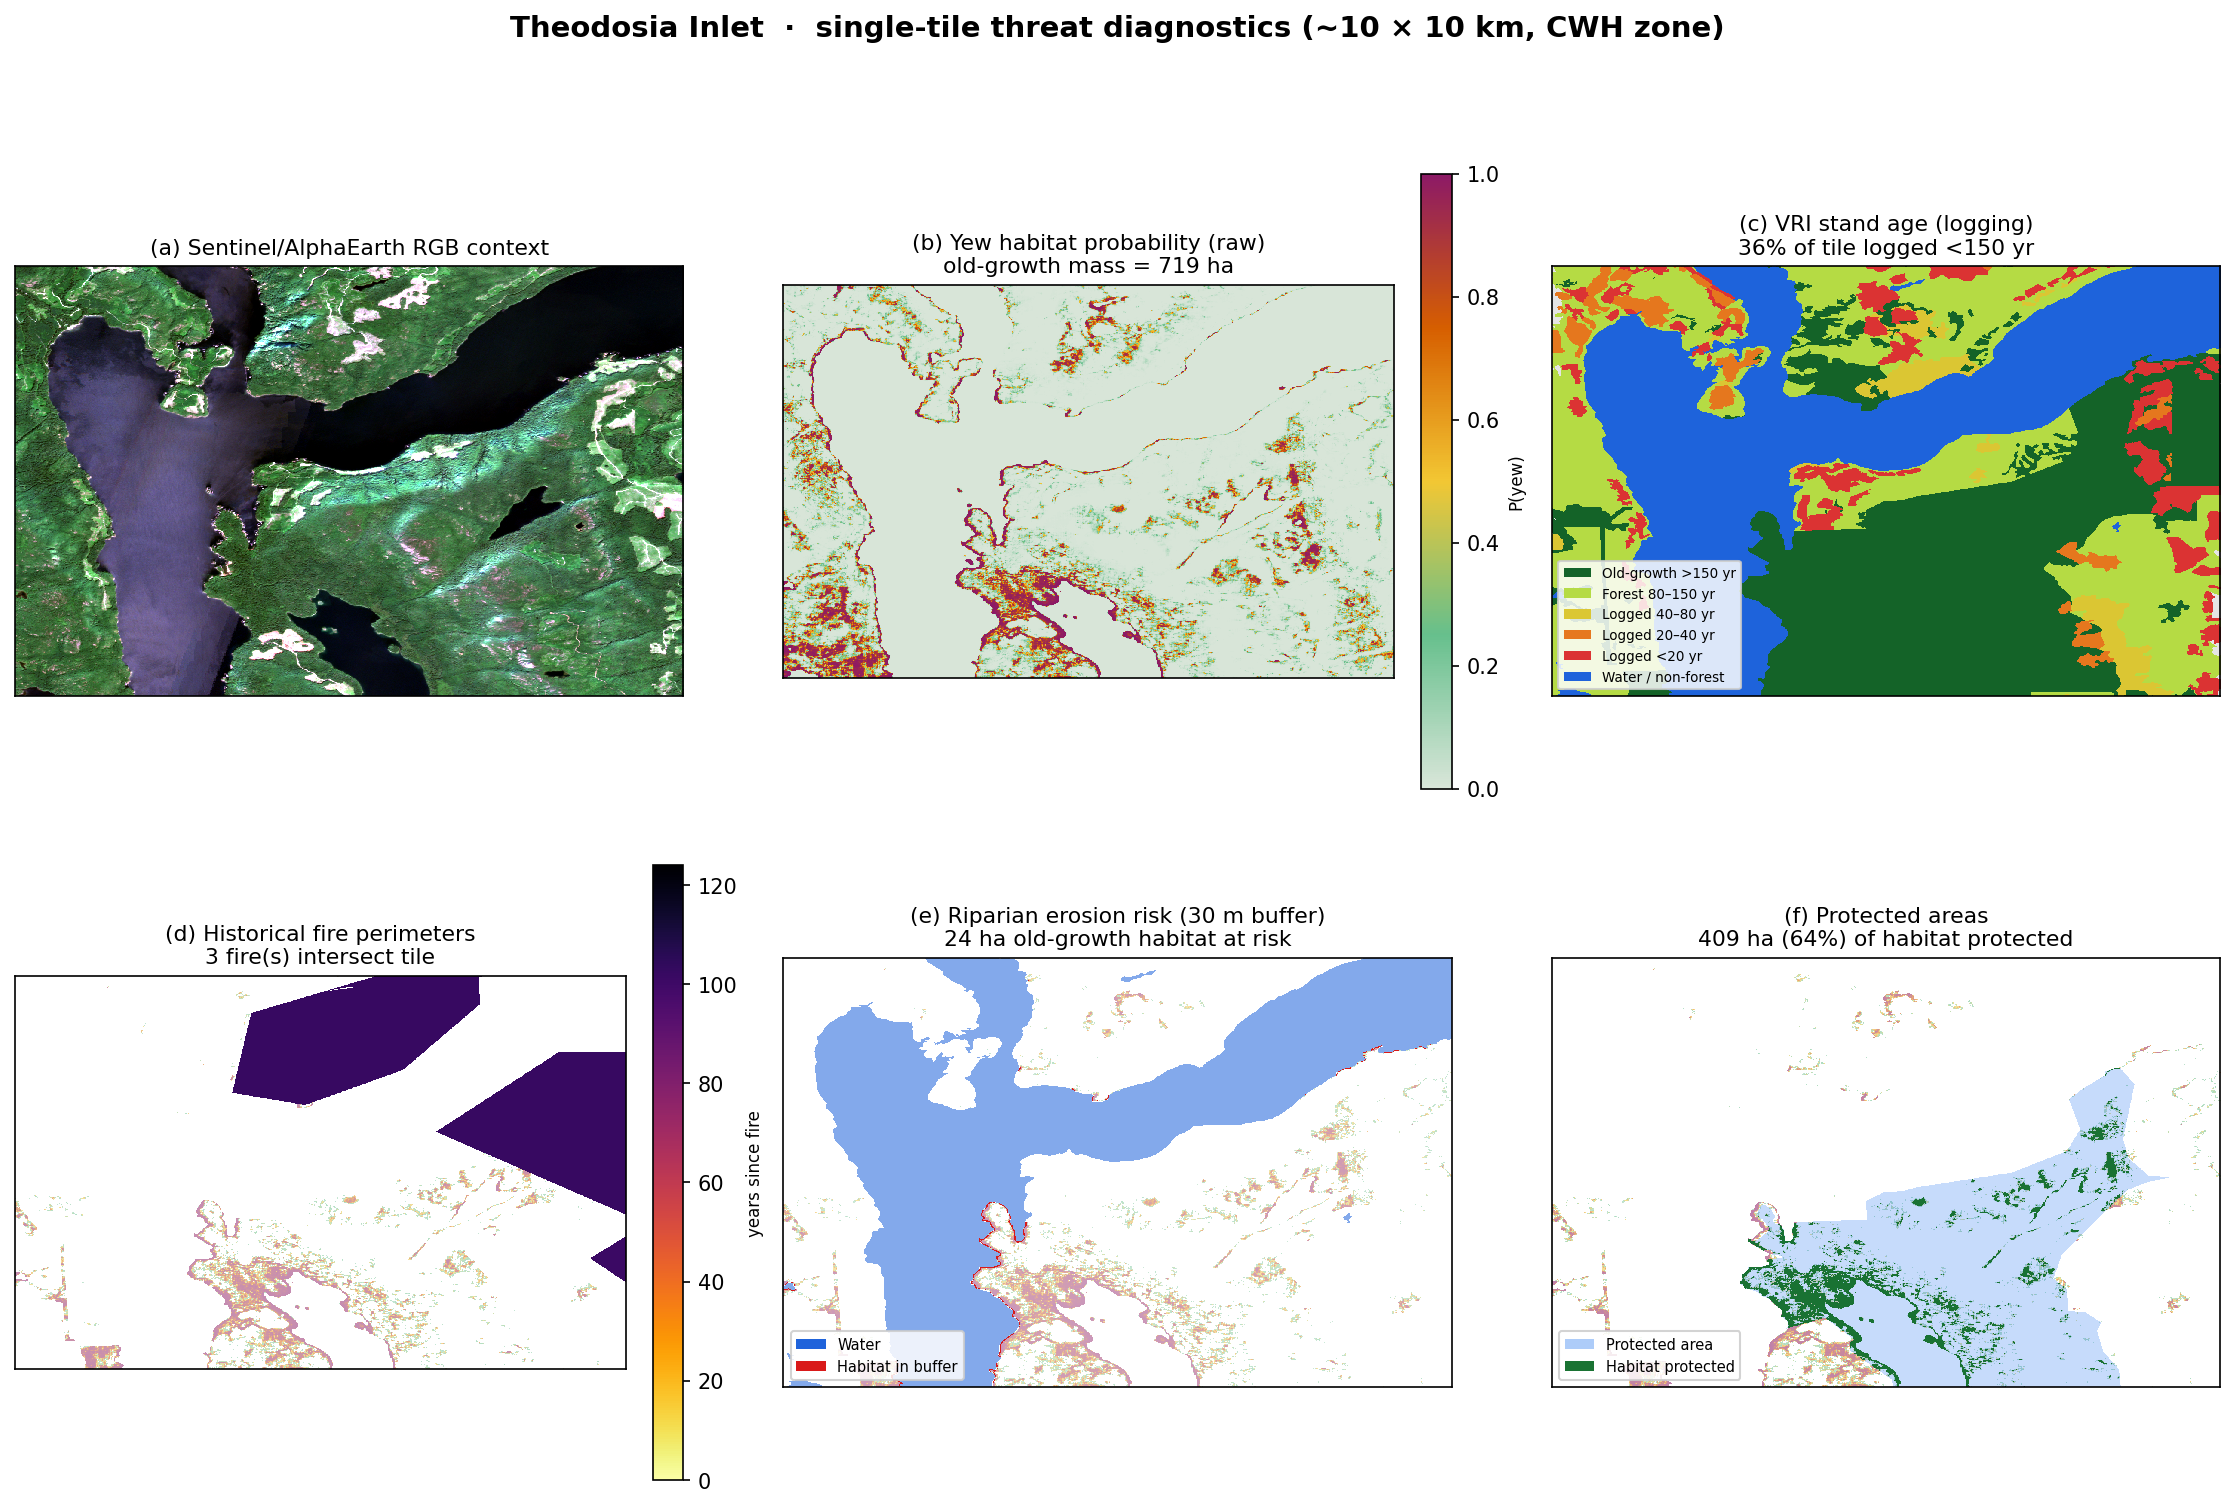
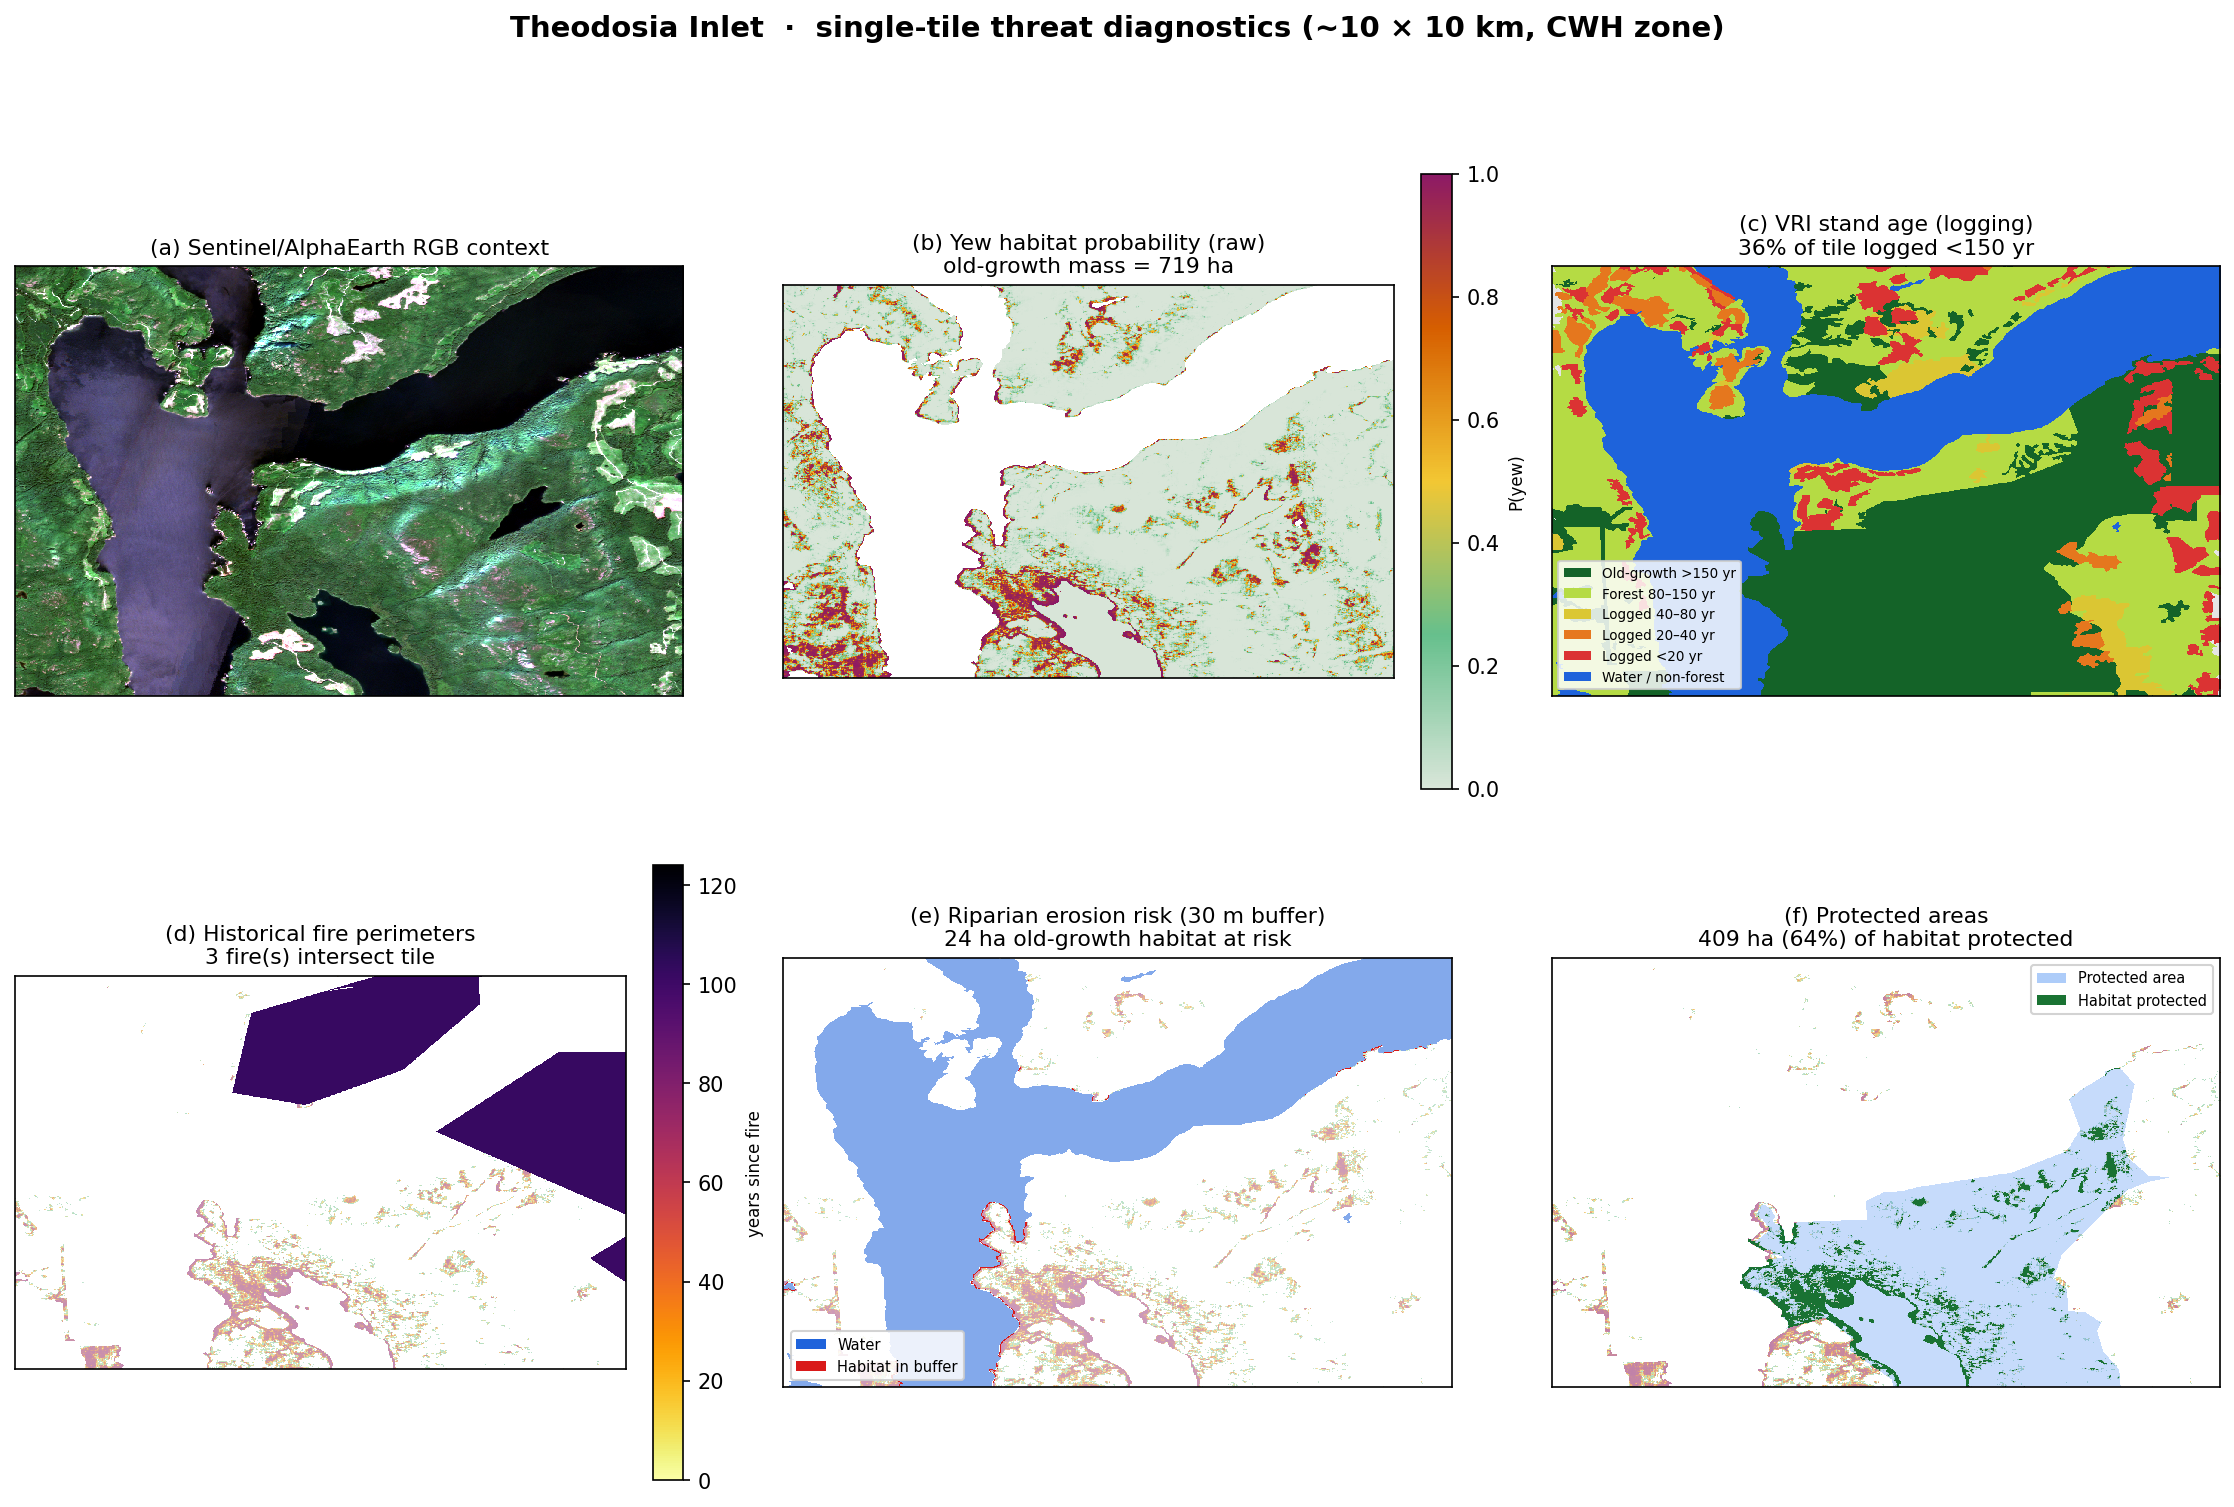
Fig 5: mask water from raw probability panel; move protected legend to top
- Panel (b): water pixels (VRI cat 1) masked out of the raw yew probability map
  so no spurious probability is shown over the inlet/fjord
- Panel (f): protected-areas legend moved from lower-left to upper-right corner

Changed region(s): [[0.3397, 0.1871, 0.6486, 0.4678], [0.8957, 0.6238, 0.9884, 0.6861], [0.6795, 0.8733, 0.7722, 0.9356]]

diff --git a/scripts/analysis/single_tile_panels.py b/scripts/analysis/single_tile_panels.py
@@ -149,9 +149,10 @@ def make_panel(slug, t, fires, parks):
                 transform=ax.transAxes)
     ax.set_title("(a) Sentinel/AlphaEarth RGB context", fontsize=10.5)
 
-    # (b) yew probability
+    # (b) yew probability (water pixels masked out — yew does not occur on water)
     ax = axes[0, 1]
-    im = ax.imshow(g, extent=extent, origin="upper", cmap=YEWCMAP,
+    g_land = np.ma.masked_where(lg == 1, g)
+    im = ax.imshow(g_land, extent=extent, origin="upper", cmap=YEWCMAP,
                    vmin=0, vmax=1, interpolation="nearest")
     ax.set_title(f"(b) Yew habitat probability (raw)\n"
                  f"old-growth mass = {raw_yew_ha:,.0f} ha", fontsize=10.5)
@@ -217,7 +218,7 @@ def make_panel(slug, t, fires, parks):
     ax.set_title(ttl, fontsize=10.5)
     ax.legend(handles=[Patch(facecolor=(0.20, 0.50, 0.95), alpha=0.4, label="Protected area"),
                        Patch(facecolor=(0.10, 0.45, 0.20), label="Habitat protected")],
-              fontsize=7, loc="lower left", framealpha=0.85)
+              fontsize=7, loc="upper right", framealpha=0.85)
 
     for ax in axes.flat:
         ax.set_xticks([]); ax.set_yticks([])